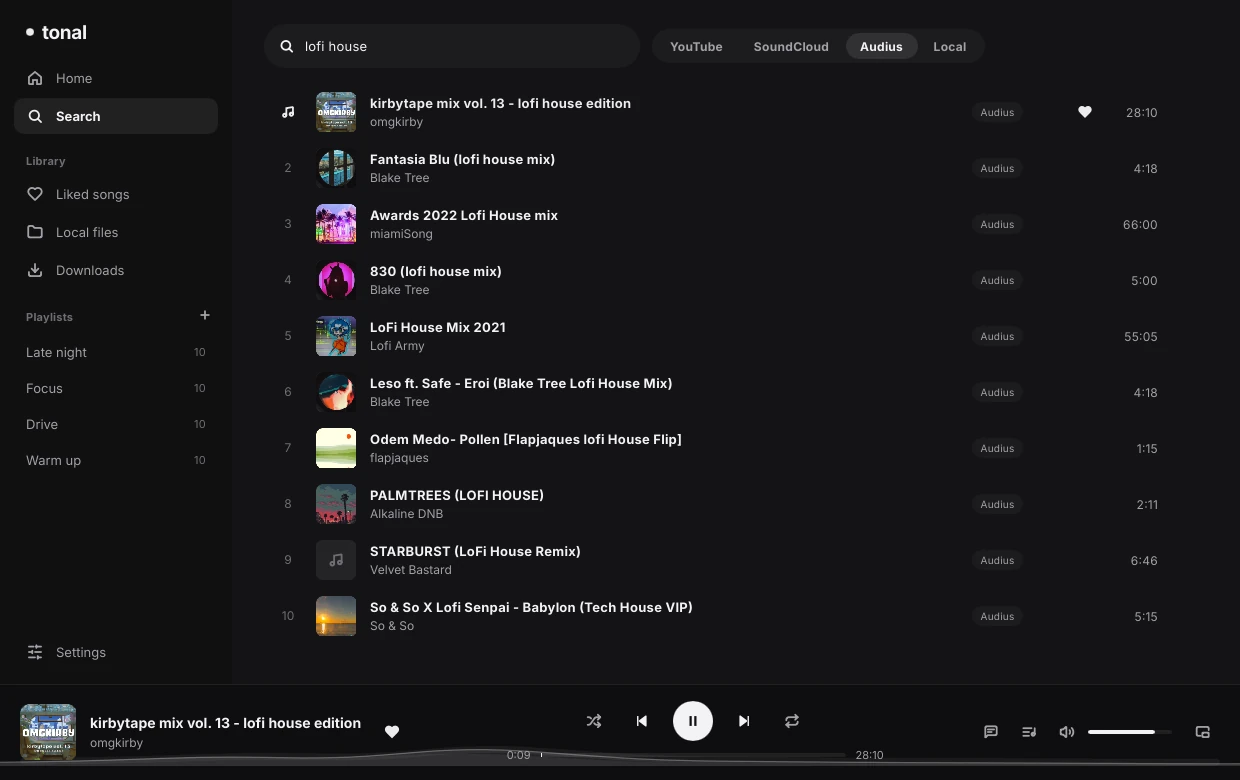
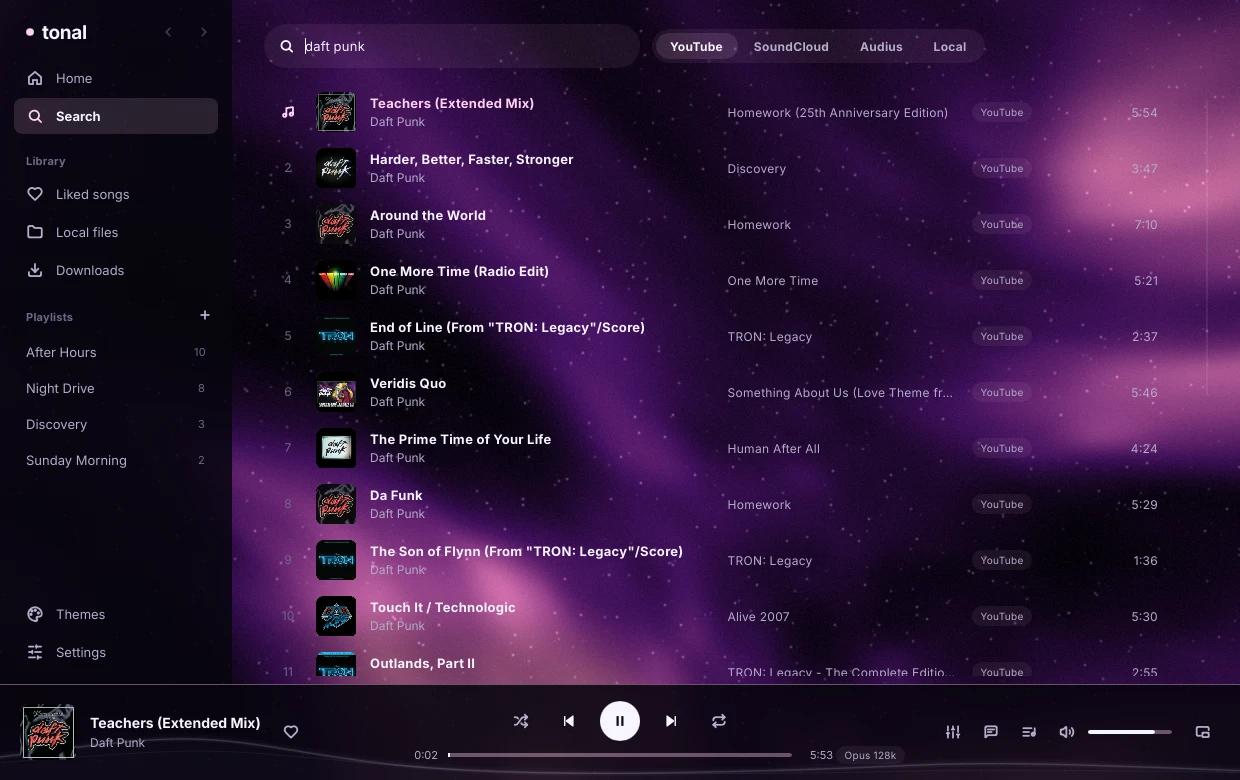
docs(readme): refresh screenshots with living themes and real tracks
- replace all 8 screenshots and add docs/images/themes.webp showing the new scenes

- populate demo library via TONAL_DEBUG_DEMO with real popular songs

- run rustfmt across theme and scene modules

diff --git a/src/app/themes.rs b/src/app/themes.rs
@@ -173,7 +173,8 @@ fn run(e: Arc<Engine>, weak: slint::Weak<AppWindow>) {
             fresh = false;
         }
         if let Some(h) = &hover {
-            let pixels = scenes::thumbnail(&h.look, h.size.0, h.size.1, time, h.size.0 as f32 * 0.07);
+            let pixels =
+                scenes::thumbnail(&h.look, h.size.0, h.size.1, time, h.size.0 as f32 * 0.07);
             post_thumb(&weak, h.saved, h.index, pixels);
             fresh = false;
         }
@@ -319,7 +320,11 @@ impl Controller {
             wanted: Mutex::new(Wanted {
                 look: look.clone(),
                 generation: 0,
-                size: if size.width < 64 { (1240, 780) } else { (size.width, size.height) },
+                size: if size.width < 64 {
+                    (1240, 780)
+                } else {
+                    (size.width, size.height)
+                },
                 hover: None,
             }),
             wake: Condvar::new(),
@@ -343,7 +348,10 @@ impl Controller {
         st.set_react(look.react.index() as i32);
         let fps = scenes::FPS.iter().position(|f| *f == look.fps).unwrap_or(1);
         st.set_fps(fps as i32);
-        let every = scenes::INTERVALS.iter().position(|m| *m == look.rotate_minutes).unwrap_or(2);
+        let every = scenes::INTERVALS
+            .iter()
+            .position(|m| *m == look.rotate_minutes)
+            .unwrap_or(2);
         st.set_interval(every as i32);
         st.set_speed(look.speed);
         st.set_strength(look.strength);
@@ -353,12 +361,18 @@ impl Controller {
         st.set_rotate(look.rotate);
         let (accent, saved, paused) = {
             let s = self.state.lock();
-            (accent(&s.settings), s.settings.saved_themes.clone(), s.paused)
+            (
+                accent(&s.settings),
+                s.settings.saved_themes.clone(),
+                s.paused,
+            )
         };
         mark(st.get_gallery(), &scenes::gallery(), look);
         mark(st.get_saved(), &saved, look);
         apply_style(w, look.style, accent);
-        let listening = look.scene != Scene::Classic && look.react != React::Off && crate::visualizer::available();
+        let listening = look.scene != Scene::Classic
+            && look.react != React::Off
+            && crate::visualizer::available();
         if st.get_listening() != listening {
             st.set_listening(listening);
             super::waves::set_playing(w, !paused);
@@ -385,12 +399,21 @@ impl Controller {
         match action {
             "scene" => {
                 let scene = Scene::at(index);
-                if look.scene == Scene::Classic && look.palette == "Mono" && scene != Scene::Classic {
-                    look.palette = scenes::PALETTES[1 + index as usize % (scenes::PALETTES.len() - 1)].name.into();
+                if look.scene == Scene::Classic && look.palette == "Mono" && scene != Scene::Classic
+                {
+                    look.palette = scenes::PALETTES
+                        [1 + index as usize % (scenes::PALETTES.len() - 1)]
+                        .name
+                        .into();
                 }
                 look.scene = scene;
             }
-            "palette" => look.palette = scenes::PALETTES[(index.max(0) as usize).min(scenes::PALETTES.len() - 1)].name.into(),
+            "palette" => {
+                look.palette = scenes::PALETTES
+                    [(index.max(0) as usize).min(scenes::PALETTES.len() - 1)]
+                .name
+                .into()
+            }
             "style" => look.style = Style::at(index),
             "react" => look.react = React::at(index),
             "fps" => look.fps = scenes::FPS[(index.max(0) as usize).min(2)],
@@ -430,7 +453,9 @@ impl Controller {
     fn theme_delete(&self, index: i32) {
         let removed = {
             let mut s = self.state.lock();
-            let i = usize::try_from(index).ok().filter(|i| *i < s.settings.saved_themes.len());
+            let i = usize::try_from(index)
+                .ok()
+                .filter(|i| *i < s.settings.saved_themes.len());
             i.map(|i| s.settings.saved_themes.remove(i))
         };
         let Some(gone) = removed else { return };
@@ -448,16 +473,25 @@ impl Controller {
         let size = self.thumb_size();
         let mut wanted = e.wanted.lock();
         if let Some(left) = value.strip_prefix('-') {
-            let same = wanted.hover.as_ref().is_some_and(|h| left == format!("{}:{}", if h.saved { "s" } else { "g" }, h.index));
+            let same = wanted.hover.as_ref().is_some_and(|h| {
+                left == format!("{}:{}", if h.saved { "s" } else { "g" }, h.index)
+            });
             if same {
                 wanted.hover = None;
             }
             return;
         }
-        let Some(look) = self.theme_pick(value) else { return };
+        let Some(look) = self.theme_pick(value) else {
+            return;
+        };
         let saved = value.starts_with('s');
         let index = value[2..].parse().unwrap_or(0);
-        wanted.hover = Some(Hover { saved, index, look, size });
+        wanted.hover = Some(Hover {
+            saved,
+            index,
+            look,
+            size,
+        });
         wanted.generation += 1;
         e.wake.notify_one();
     }
@@ -465,7 +499,12 @@ impl Controller {
         let (width, scale) = self
             .window
             .upgrade()
-            .map(|w| (w.global::<ThemeStudio>().get_tile_width(), w.window().scale_factor()))
+            .map(|w| {
+                (
+                    w.global::<ThemeStudio>().get_tile_width(),
+                    w.window().scale_factor(),
+                )
+            })
             .unwrap_or((200.0, 1.0));
         let w = (width.max(80.0) * scale).round() as u32;
         (w, (w as f32 * 0.6).round() as u32)
@@ -475,15 +514,17 @@ impl Controller {
         let saved = self.state.lock().settings.saved_themes.clone();
         let weak = self.window.clone();
         let radius = 14.0 * w as f32 / 200.0;
-        let _ = std::thread::Builder::new().name("theme-thumbs".into()).spawn(move || {
-            let lists = [(false, scenes::gallery()), (true, saved)];
-            for (is_saved, looks) in lists {
-                for (i, look) in looks.iter().enumerate() {
-                    let pixels = scenes::thumbnail(look, w, h, 24.0, radius);
-                    post_thumb(&weak, is_saved, i, pixels);
+        let _ = std::thread::Builder::new()
+            .name("theme-thumbs".into())
+            .spawn(move || {
+                let lists = [(false, scenes::gallery()), (true, saved)];
+                for (is_saved, looks) in lists {
+                    for (i, look) in looks.iter().enumerate() {
+                        let pixels = scenes::thumbnail(look, w, h, 24.0, radius);
+                        post_thumb(&weak, is_saved, i, pixels);
+                    }
                 }
-            }
-        });
+            });
     }
     pub fn theme_save(&self, name: &str) {
         let (current, saved) = {

diff --git a/src/app/debug.rs b/src/app/debug.rs
@@ -14,10 +14,63 @@ fn open_now_playing(weak: slint::Weak<AppWindow>, tries: u32) {
     });
 }
 
+/// Fills an empty library for screenshots: "# Name" starts a playlist, every other line is a
+/// YouTube Music search whose top hit goes in it, gets played once and every third one liked.
+fn demo_library(app: Controller, file: String) {
+    tokio::spawn(async move {
+        let Ok(text) = std::fs::read_to_string(&file) else {
+            return;
+        };
+        let mut playlist = None;
+        for (n, line) in text
+            .lines()
+            .map(str::trim)
+            .filter(|l| !l.is_empty())
+            .enumerate()
+        {
+            if let Some(name) = line.strip_prefix("# ") {
+                playlist = app.result(app.library.create_playlist(name, None));
+                continue;
+            }
+            let found = crate::sources::search(crate::model::SourceKind::YouTube, line, 1).await;
+            let Some(track) = app.result(found).and_then(|t| t.into_iter().next()) else {
+                continue;
+            };
+            app.result(app.library.upsert_tracks(std::slice::from_ref(&track)));
+            if let Some(id) = playlist {
+                app.result(
+                    app.library
+                        .add_to_playlist(id, std::slice::from_ref(&track)),
+                );
+            }
+            app.result(app.library.record_play(&track));
+            if n % 3 == 0 {
+                app.result(app.library.set_liked(&track, true));
+            }
+            if let Some(art) = &track.artwork_url {
+                let _ = crate::artwork::load(art, 88).await;
+            }
+        }
+        app.refresh_playlists();
+        app.load_page("Home");
+        log::info!("Demo library ready");
+    });
+}
+
 pub(super) fn debug_hooks(app: &Controller, window: &AppWindow) {
+    if let Ok(file) = std::env::var("TONAL_DEBUG_DEMO") {
+        demo_library(app.clone(), file);
+    }
     if let Ok(dir) = std::env::var("TONAL_DEBUG_MUSIC") {
         app.state.lock().settings.music_dirs = vec![dir.into()];
         app.command("rescan");
+    }
+    if let Some(id) = std::env::var("TONAL_DEBUG_PLAYLIST")
+        .ok()
+        .and_then(|v| v.parse().ok())
+    {
+        app.playlist(id);
+        app.play(0);
     }
     if let Ok(query) = std::env::var("TONAL_DEBUG_QUERY") {
         let source = std::env::var("TONAL_DEBUG_SOURCE")
@@ -36,6 +89,7 @@ pub(super) fn debug_hooks(app: &Controller, window: &AppWindow) {
     }
     if let Ok(view) = std::env::var("TONAL_DEBUG_VIEW") {
         match view.as_str() {
+            "home" => app.load_page("Home"),
             "mini" | "queue" | "lyrics" | "eq" => app.command(&view),
             "settings" => app.load_page("Settings"),
             "themes" => app.load_page("Themes"),
@@ -57,13 +111,6 @@ pub(super) fn debug_hooks(app: &Controller, window: &AppWindow) {
             }
             _ => {}
         }
-    }
-    if let Some(id) = std::env::var("TONAL_DEBUG_PLAYLIST")
-        .ok()
-        .and_then(|v| v.parse().ok())
-    {
-        app.playlist(id);
-        app.play(0);
     }
     let source = match std::env::var("TONAL_DEBUG_SOURCE").as_deref() {
         Ok("1") => crate::model::SourceKind::SoundCloud,

diff --git a/src/visualizer/mod.rs b/src/visualizer/mod.rs
@@ -39,7 +39,12 @@ pub fn levels() -> [f32; 4] {
 
 fn publish(levels: &[f32; BANDS], energy: f32) {
     let mean = |r: std::ops::Range<usize>| levels[r.clone()].iter().sum::<f32>() / r.len() as f32;
-    let values = [mean(0..6), mean(6..18), mean(18..BANDS), (energy * 4.0).min(1.0)];
+    let values = [
+        mean(0..6),
+        mean(6..18),
+        mean(18..BANDS),
+        (energy * 4.0).min(1.0),
+    ];
     for (slot, v) in LEVELS.iter().zip(values) {
         slot.store(v.to_bits(), Ordering::Relaxed);
     }

diff --git a/src/scenes/mod.rs b/src/scenes/mod.rs
@@ -3,7 +3,7 @@ mod painters;
 #[cfg(test)]
 mod tests;
 
-use draw::{hex, rand, shift_hue, Canvas, C};
+use draw::{C, Canvas, hex, rand, shift_hue};
 use serde::{Deserialize, Serialize};
 use slint::{Rgb8Pixel, Rgba8Pixel, SharedPixelBuffer};
 

diff --git a/src/app/waves.rs b/src/app/waves.rs
@@ -1,5 +1,5 @@
-use crate::visualizer::Visualizer;
 use crate::AppWindow;
+use crate::visualizer::Visualizer;
 use slint::{ComponentHandle, Timer, TimerMode};
 use std::cell::RefCell;
 use std::time::{Duration, Instant};

diff --git a/src/scenes/painters.rs b/src/scenes/painters.rs
@@ -1,5 +1,5 @@
-use super::draw::*;
 use super::Ctx;
+use super::draw::*;
 
 /// Stars that twinkle, brighter with the highs.
 fn stars(x: usize, y: usize, v: f32, k: &Ctx, below: f32) -> f32 {

diff --git a/README.md b/README.md
@@ -28,6 +28,7 @@ Most music apps are a web browser in disguise. Tonal draws its own window with [
 - **Album grid:** browse your local files as albums, sorted by artist, year or recently added.
 - **Listening stats:** your top artists and albums this month and of all time, on Home. They never leave your computer.
 - **Album colors:** the waves and the equalizer take a soft color from the cover.
+- **Living themes:** 15 animated background scenes (aurora, dunes, ocean tide, misty pines, liquid glass, synthwave, sakura petals, city rain and more), 18 color palettes, endless seed variants that can crossfade on a timer, four panel styles (Clear, Glass, Neon, Solid) and optional music reactivity. The default Classic look paints nothing and costs 0% CPU.
 - **Flowing visualizer:** a soft wave across the bottom of the window that moves with the music. It only runs while something plays, and settles into a still line when you pause.
 - **Equalizer:** drag six points on a smooth curve, or pick a preset. Hold the compare button to hear the song without it.
 - **Good playback:** gapless, crossfade, volume levelling, shuffle and repeat, all done by mpv.
@@ -39,21 +40,21 @@ Most music apps are a web browser in disguise. Tonal draws its own window with [
 
 ## Screenshots
 
-| Home | Search |
+| Home | Themes |
 | --- | --- |
-| ![Home with recently played songs and the playlists in the sidebar](docs/images/home.webp) | ![Search results from Audius for "lofi house"](docs/images/search.webp) |
+| ![Home with recently played songs over the Liquid glass theme](docs/images/home.webp) | ![The theme browser and customizer over the Outrun synthwave scene](docs/images/themes.webp) |
 
-| Artist | Album |
+| Search | Artist |
 | --- | --- |
-| ![An artist page with the photo, popular songs and album covers](docs/images/artist.webp) | ![An album page with the cover, year, length and every track](docs/images/album.webp) |
+| ![Search results from YouTube Music for Daft Punk](docs/images/search.webp) | ![The Weeknd artist page over the Golden hour dunes scene](docs/images/artist.webp) |
 
-| Queue | Settings |
+| Album | Queue |
 | --- | --- |
-| ![A playlist playing with the queue panel open on the right](docs/images/queue.webp) | ![Settings grouped into Playback and Library cards with switches](docs/images/settings.webp) |
+| ![Daft Punk Random Access Memories album page over Sakura drift](docs/images/album.webp) | ![A playlist playing with the queue panel open over City rain](docs/images/queue.webp) |
 
-**Mini player:** the controls and the visualizer in a small window.
-
-![The mini player with artwork, controls, progress and the wave visualizer](docs/images/mini.webp)
+| Settings | Mini player |
+| --- | --- |
+| ![Settings grouped into Playback and Library cards](docs/images/settings.webp) | ![The mini player with artwork, controls, progress and the wave visualizer](docs/images/mini.webp) |
 
 ## Install
 
